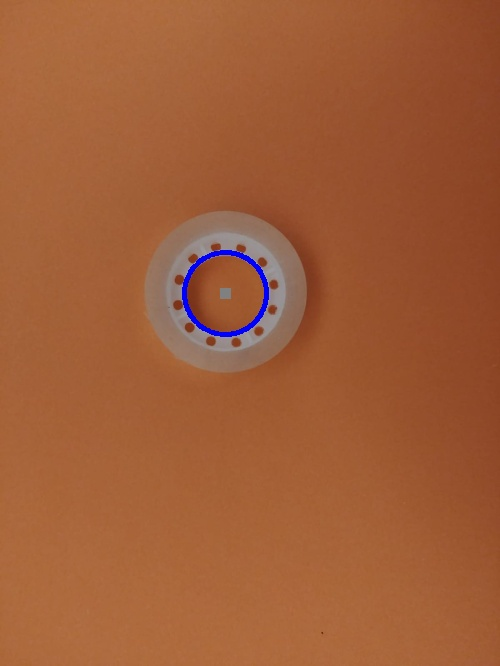
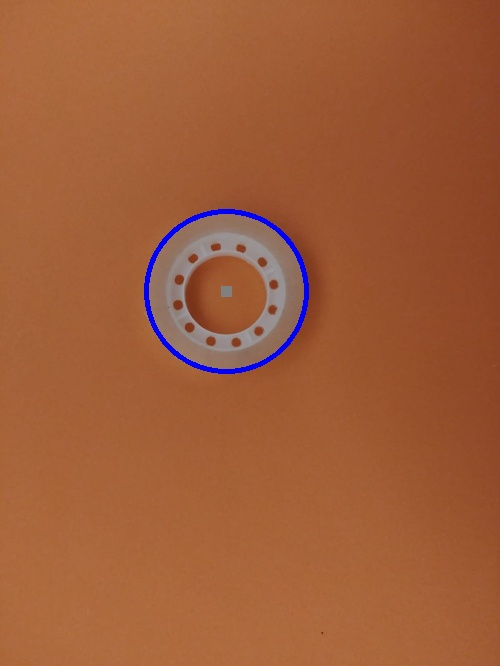
detecting circles

diff --git a/Detecting Circles in Images/detect_circle.py b/Detecting Circles in Images/detect_circle.py
@@ -17,7 +17,7 @@ gray = cv2.cvtColor(image, cv2.COLOR_BGR2GRAY)
 cv2.imshow("gray",gray)
 cv2.waitKey(0)
 
-circles = cv2.HoughCircles(gray, cv2.HOUGH_GRADIENT, 1.2, 100)
+circles = cv2.HoughCircles(gray, cv2.HOUGH_GRADIENT, 1.3, 100)
 
 
 if circles is not None:
